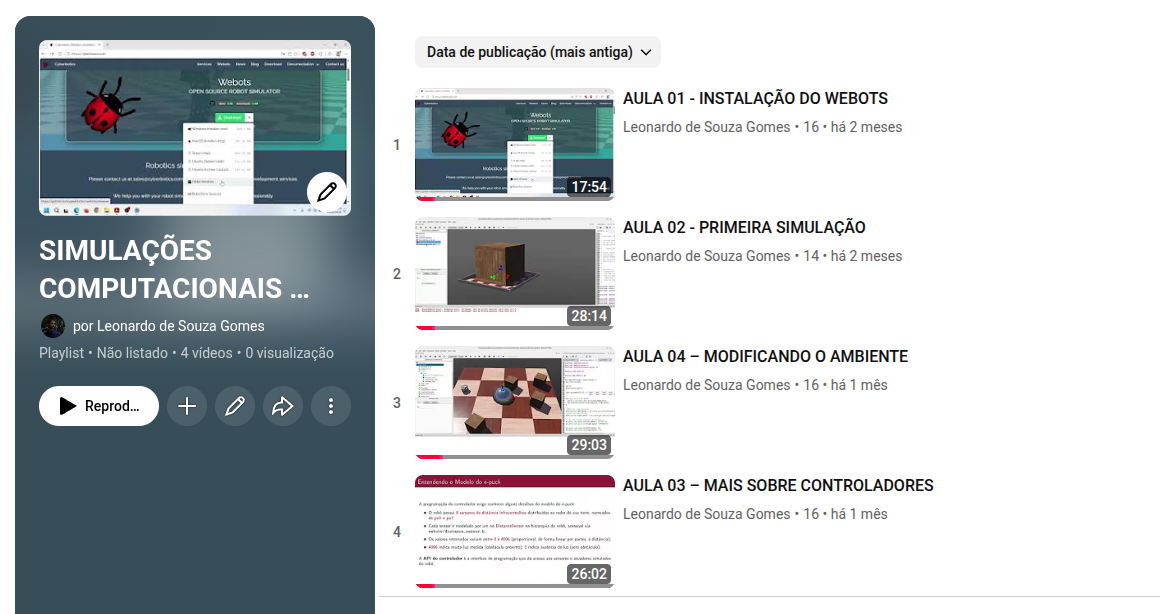
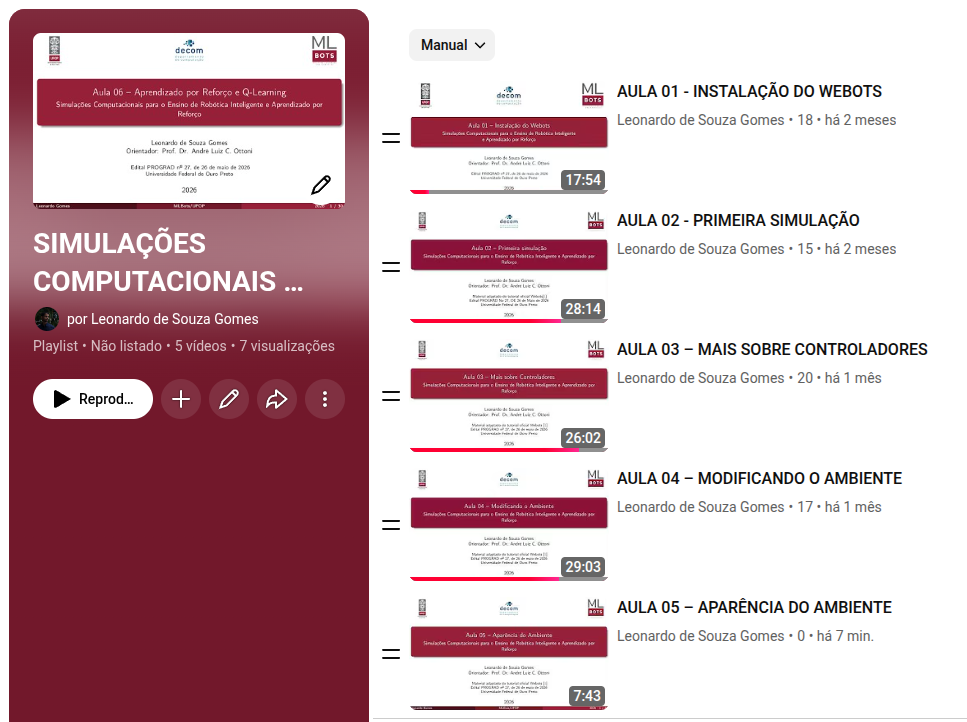
Link do video da Aula 5 adicionada do MD e atualização da foto da playlist

diff --git a/README.md b/README.md
@@ -29,14 +29,14 @@ Este material foi desenvolvido como parte das atividades de ensino e pesquisa em
 
 ## 🎥 Videoaulas
 
-| Aula | Descrição | Slides | Vídeo | Status |
-| :---: | :--- | :---: | :---: | :---: |
-| **01** | Aula 1 - Introdução às Simulações Computacionais e Webots | [PDF](01_instalacao.pdf) | [Assistir no YouTube](https://youtu.be/7o1xTCDoiL4) | 🟢 Disponível |
-| **02** | Aula 2 - Modelagem e Modificação do Ambiente | [PDF](02_primeira_simulacao.pdf) | [Assistir no YouTube](https://youtu.be/VFdVK8f9Q0A) | 🟢 Disponível |
-| **03** | Aula 3 - Sensores, Atuadores e Controladores | [PDF](03_controladores.pdf) | [Assistir no YouTube](https://youtu.be/euTb9rZo8Ig) | 🟢 Disponível |
-| **04** | Aula 4 - Navegação e Controle do Robô | [PDF](04_ambiente.pdf) | [Assistir no YouTube](https://youtu.be/EQzjYMp2MEg) | 🟢 Disponível |
-| **05** | Aula 5 - Aparência de objetos | [PDF](05_aparencia.pdf) | [Assistir no YouTube](COLOQUE_O_LINK_AQUI) | 🟢 Disponível |
-| **06** | Aula 6 - Treinamento do Q-Learning | [PDF](06_QLearning.pdf) | — | 🟡 Vídeo em breve (slides disponíveis) |
+| Aula | Descrição | Slides | Vídeo |
+| :---: | :--- | :---: | :---: |
+| **01** | Aula 1 - Introdução às Simulações Computacionais e Webots | [PDF](01_instalacao.pdf) | [Assistir no YouTube](https://youtu.be/7o1xTCDoiL4) 
+| **02** | Aula 2 - Modelagem e Modificação do Ambiente | [PDF](02_primeira_simulacao.pdf) | [Assistir no YouTube](https://youtu.be/VFdVK8f9Q0A) 
+| **03** | Aula 3 - Sensores, Atuadores e Controladores | [PDF](03_controladores.pdf) | [Assistir no YouTube](https://youtu.be/euTb9rZo8Ig) 
+| **04** | Aula 4 - Navegação e Controle do Robô | [PDF](04_ambiente.pdf) | [Assistir no YouTube](https://youtu.be/EQzjYMp2MEg) 
+| **05** | Aula 5 - Aparência de objetos | [PDF](05_aparencia.pdf) | [Assistir no YouTube](https://youtu.be/kXElJ9QB3HI) | 
+| **06** | Aula 6 - Treinamento do Q-Learning | [PDF](06_QLearning.pdf) | 🟡 Vídeo em breve (slides disponíveis) |
 
 <p align="center">
   <img src="Imagens/screen_playlist_yt.png" alt="Playlist das videoaulas no YouTube" width="700">
@@ -48,13 +48,13 @@ Este material foi desenvolvido como parte das atividades de ensino e pesquisa em
 
 ### Robô e-puck
 
-| e-puck (vista 1) | e-puck (vista 2) | Sensores do e-puck |
+| e-puck | adicionando e-puck | Sensores do e-puck |
 | :---: | :---: | :---: |
 | <img src="Imagens/epuck_0.png" alt="e-puck" width="250"> | <img src="Imagens/epuck_1.png" alt="e-puck" width="250"> | <img src="Imagens/epuck_sensores.png" alt="Sensores do e-puck" width="250"> |
 
 ### Outros robôs e conceitos
 
-| Robô Spot | Ciclo do agente (Aula 6) |
+| Manipulação de Iluminação | Ciclo do agente (Aula 6) |
 | :---: | :---: |
 | <img src="Imagens/spot_5.png" alt="Robô Spot na Aula 5" width="350"> | <img src="Imagens/ciclo_agente_aula_6.png" alt="Ciclo do agente em Aprendizado por Reforço" width="350"> |
 
